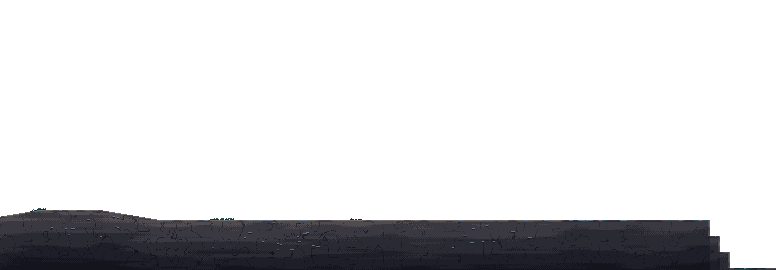
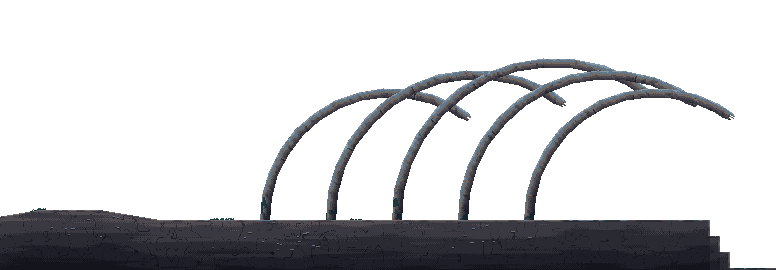
Draw the rib arch: bone snapped from the spine, standing in the mud
The five ribs are drawn into the Abyss's ground strip behind the mud,
which keeps their place in the drawing order, behind the carving and
everything that stands. Bleached along the back, dark beneath, stained
where they stand, split by hairline cracks from the belly, each ending
in a splintered point rather than a cut. The greybox ribs are hidden.
They were decoration only and have no collision.

Checked: check_art.py problems=0; integration 435 passed, 0 failed (GCC
debug, native clone). Captures b1 and b2, looked at by the developer only.

Changed region(s): [[0.3093, 0.2074, 0.9588, 0.8296]]

diff --git a/tools/art/gen_abyss.py b/tools/art/gen_abyss.py
@@ -93,6 +93,8 @@ def ground():
     worn stone underfoot where the canyon closes round the Monolith."""
     width = X1 - X0
     img = blank(width, HEIGHT)
+    # Behind the mud, which then lies against their feet.
+    paste(img, rib_arch(), None)
     noise = Noise(301)  # The reference section's own, so the mud carries on across x = 1440.
     stone = Noise(331)
     for col in range(width):
@@ -607,9 +609,22 @@ def _distance(points, x, y):
     return best
 
 
+def _along(points, x, y):
+    """How far along a line drawn through points its nearest point to (x, y) lies, in pixels."""
+    best, at, run = 1e9, 0.0, 0.0
+    for (x0, y0), (x1, y1) in zip(points, points[1:]):
+        dx, dy = x1 - x0, y1 - y0
+        t = max(0.0, min(1.0, ((x - x0) * dx + (y - y0) * dy) / (dx * dx + dy * dy)))
+        distance = math.hypot(x - x0 - t * dx, y - y0 - t * dy)
+        if distance < best:
+            best, at = distance, run + t * math.hypot(dx, dy)
+        run += math.hypot(dx, dy)
+    return at
+
+
 def rib_arch():
     """Five ribs of something far larger than a whale, standing out of the mud and leaning over the way on. Each fills
-    its own shape in the scene exactly. Bleached along the back where the moon reaches, dark beneath, stained green
+    its own shape in the scene, short of the tip, where it snapped from the spine. Bleached along the back where the moon reaches, dark beneath, stained green
     where it stands in the mud, split across in places by its own weight. Returns the image and its world origin."""
     shapes = [gen_reveal.scene_polygon(name, "ActArt") for name in RIBS]
     x0 = math.floor(min(x for shape in shapes for x, _ in shape)) - 1
@@ -623,7 +638,8 @@ def rib_arch():
         half = len(shape) // 2
         back, belly = shape[:half], shape[half:]
         length = sum(math.hypot(bx - ax, by - ay) for (ax, ay), (bx, by) in zip(back, back[1:]))
-        breaks = sorted(rng.uniform(0.18, 0.9) for _ in range(3))
+        # Cracks run in from the belly, where the weight pulls, each stopping part of the way across.
+        cracks = sorted((rng.uniform(0.18, 0.85) * length, rng.uniform(0.15, 0.55)) for _ in range(3))
         left = math.floor(min(x for x, _ in shape)) - x0
         right = math.ceil(max(x for x, _ in shape)) - x0
         for col in range(left, right + 1):
@@ -633,13 +649,22 @@ def rib_arch():
                 x, y = col + x0 + 0.5, row + y0 + 0.5
                 to_back, to_belly = _distance(back, x, y), _distance(belly, x, y)
                 across = to_back / max(0.01, to_back + to_belly)
-                # How far along the rib, from the mud to the tip, near enough: by height, then by reach.
-                along = min(1.0, (math.hypot(x - shape[0][0], y) / length) * 1.25)
+                along = _along(back, x, y)
+                # Snapped off where it once met the spine: a splintered end, not a cut one.
+                end = length - along
+                splinter = 1.5 + 10.0 * noise(across * 9.0, index * 5.0 + 0.5)
+                if end < splinter or abs(across - 0.45) > 0.2 + 0.35 * end / 14.0:
+                    continue
                 pit = noise(x / 3.0, y / 3.0 + index * 9.0)
                 grain = noise((x + y) / 14.0, (x - y) / 3.0 + index)
-                value = 6.3 - 4.6 * across + (grain - 0.5) * 1.4 - (1.2 if pit > 0.8 else 0.0) - 1.6 * max(0.0, 1.0 - along * 5.0)
-                if any(abs(along - b) < 0.006 + 0.004 * across for b in breaks):
-                    value -= 2.6
+                value = 6.0 - 4.4 * across + (grain - 0.5) * 1.2 - (1.0 if pit > 0.84 else 0.0) - 1.6 * max(0.0, 1.0 - along / length * 5.0)
+                if end < splinter + 1.5:
+                    value -= 1.2
+                for at, reach in cracks:
+                    if across > reach and abs(along - at) < 0.6:
+                        value -= 2.4
+                    elif across > reach + 0.1 and 0.6 <= along - at < 1.8:
+                        value += 0.7
                 color = ramp(BONE, value, col + x0, row, 0.3)
                 # Weed and stain where it stands in the mud, and a little in the cracks' lee.
                 if -y < 26 * noise(x / 6.0, 7.0 + index) and noise(x / 2.0, y / 4.0) > 0.52:

diff --git a/docs/evidence/m4/art/README.md b/docs/evidence/m4/art/README.md
@@ -7,5 +7,6 @@ Collision is unchanged throughout: `tools/art/check_art.py` compares the drawn g
 | Stretch | What changed | Captures | Commit |
 |---|---|---|---|
 | **A. The Abyss's ground and far view** | The seabed drawn from the reference section's end to the trench, its mud carried across x = 1440 without a seam, drying crust going black and wet, then worn flags toward the Monolith; rock where the collision has a block to climb. The Abyss opened to the sky: the plain and its far ridges carried on, and a far cliff, on which the watcher stands and behind which the distant shape rises. The flat backdrop, the rim, the blocky ridges and the greybox ground are hidden (D100) | `a1` to `a3`, [sheet](a-sheet.png) | `622ca0e` |
+| **B. The rib arch** | Five ribs, bleached along the back where the moon reaches and dark beneath, stained where they stand in the mud, split by hairline cracks from the belly, each snapped to a splintered point where it once met the spine. Baked into the ground strip behind the mud, which keeps their place in the drawing order: behind the carving and everything that stands. The five greybox ribs are hidden. Decoration only: they had no collision and have none | `b1`, `b2`, [sheet](b-sheet.png) | the commit that adds this row |
 
-**Known in these captures, and next in order:** the rib arch, the fossil, the ledges, slab, stone and everything past them are still greybox shapes here; each has its own stretch below as it lands.
+**Known in these captures, and next in order:** in `a1` to `a3` the ribs are still greybox, as they were at `622ca0e`. In `b1` and `b2` the fossil, the ledges, the slab, the stone and everything past them are still greybox shapes; each has its own stretch below as it lands.
